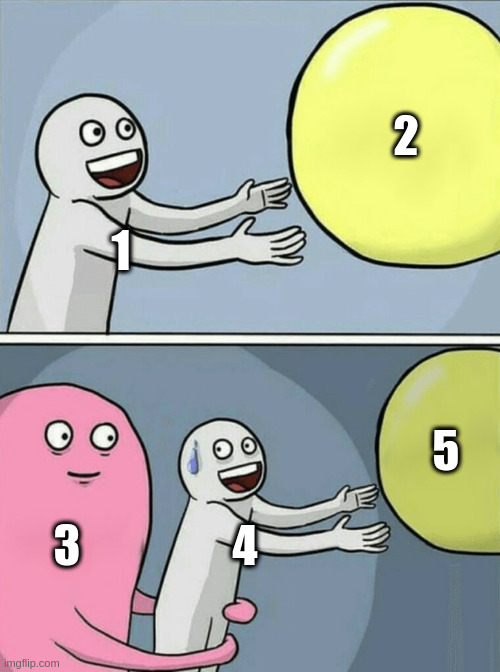
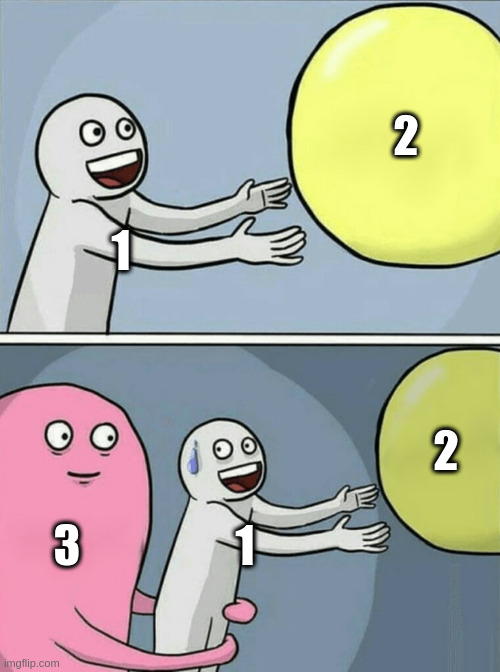
complted

Changed region(s): [[0.84, 0.625, 0.93, 0.7188], [0.45, 0.7812, 0.54, 0.8438]]

diff --git a/main.py b/main.py
@@ -18,41 +18,41 @@ bot = telebot.TeleBot(API_TOKEN, parse_mode=None)
 #         messages: []
 #     }
 # }
-userStates = {
-    1635159241: {
-        "userState": "1",
-        "messages": [
-            ["1", "hello he heheheheh"],
-            ["2", "hello bruh asdas hasdkjhb asashdja "],
-            ["3", "hello this isx 3 s"],
-            ["4", "hello"],
-            ["5", "hello"]
-        ]
-    }
-}
+userStates = {}
 
 dimensions = {
     "1": {
         "position": (23, 300),
         "width": 10,
-        "lines": 3
+        "lines": 3,
+        "font": 50
     },
 
     "2": {
         "position": (430, 50),
         "width": 10,
-        "lines": 3
+        "lines": 3,
+        "font": 50
     },
 
     "3": {
-        "position": (13, 750),
+        "position": (13, 720),
         "width": 10,
-        "lines": 3
+        "lines": 3,
+        "font": 50
     },
     "4": {
-        "position": (220, 600),
+        "position": (300, 800),
+        "width": 20,
+        "lines": 3,
+        "font": 30
+    },
+
+    "5": {
+        "position": (550, 600),
         "width": 10,
-        "lines": 3
+        "lines": 3,
+        "font": 30
     }
 }
 
@@ -66,10 +66,8 @@ def send_welcome(message):
     button1 = InlineKeyboardButton("1", callback_data="option1")
     button2 = InlineKeyboardButton("2", callback_data="option2")
     button3 = InlineKeyboardButton("3", callback_data="option3")
-    button4 = InlineKeyboardButton("4", callback_data="option4")
-    button5 = InlineKeyboardButton("5", callback_data="option5")
 
-    markup.add(button1, button2, button3, button4, button5)
+    markup.add(button1, button2, button3)
 
     bot.send_message(
         chatID,
@@ -117,7 +115,16 @@ def setMessage(message, option):
         userStates[chatID]["messages"] = []
     
     finally:
-        userStates[chatID]["messages"].append([option, text])
+        if option == '1':
+            userStates[chatID]["messages"].append(['1', text])
+            userStates[chatID]["messages"].append(['4', text])
+        
+        elif option == '2':
+            userStates[chatID]["messages"].append(['2', text])
+            userStates[chatID]["messages"].append(['5', text])
+        
+        else:
+            userStates[chatID]["messages"].append([option, text])
 
 def drawBackground(draw, text_position, text, font, border_size=4):
     for i in range(-border_size, border_size+1):
@@ -132,27 +139,24 @@ def drawBackground(draw, text_position, text, font, border_size=4):
 def generateMeme(chatID):
     img = Image.open("images/meme_one.jpg")
     draw = ImageDraw.Draw(img)
-    font = ImageFont.truetype("Poppins-Black.ttf", 50)
+    try:
+        for option, message in userStates[chatID]["messages"]:
+            font = ImageFont.truetype(
+                "Poppins-Black.ttf",
+                dimensions[option]["font"]
+            )
 
-    for option, message in userStates[chatID]["messages"]:
-        if option != "3":
-            continue
 
-        text_position = dimensions[option]["position"]
-        wrapper = textwrap.TextWrapper(width=dimensions[option]["width"])
-        lines = wrapper.wrap(text=message)
+            text_position = dimensions[option]["position"]
+            wrapper = textwrap.TextWrapper(width=dimensions[option]["width"])
+            lines = wrapper.wrap(text=message)
 
-        for line in lines:
-            drawBackground(draw, text_position, line, font)
-            text_position = (text_position[0], text_position[1]+60)
-
-    # text_position = (23, 420)
-    # wrapper = textwrap.TextWrapper(width=10)
-    # lines = wrapper.wrap(text=text)
-
-    # for line in lines:
-    #     drawBackground(draw, text_position, line, font)
-    #     text_position = (text_position[0], text_position[1]+60)
+            for line in lines:
+                drawBackground(draw, text_position, line, font)
+                text_position = (text_position[0], text_position[1]+60)
+        
+    except KeyError:
+        return 2
 
     return img
 
@@ -160,6 +164,10 @@ def generateMeme(chatID):
 def send_meme(message):
     chatID = message.chat.id
     meme = generateMeme(chatID)
+    if meme == 2:
+        bot.send_message(chatID, "You have not selected all the options")
+        return
+
     bot.send_photo(chatID, meme)
 
 @bot.message_handler(func=lambda message: True)
